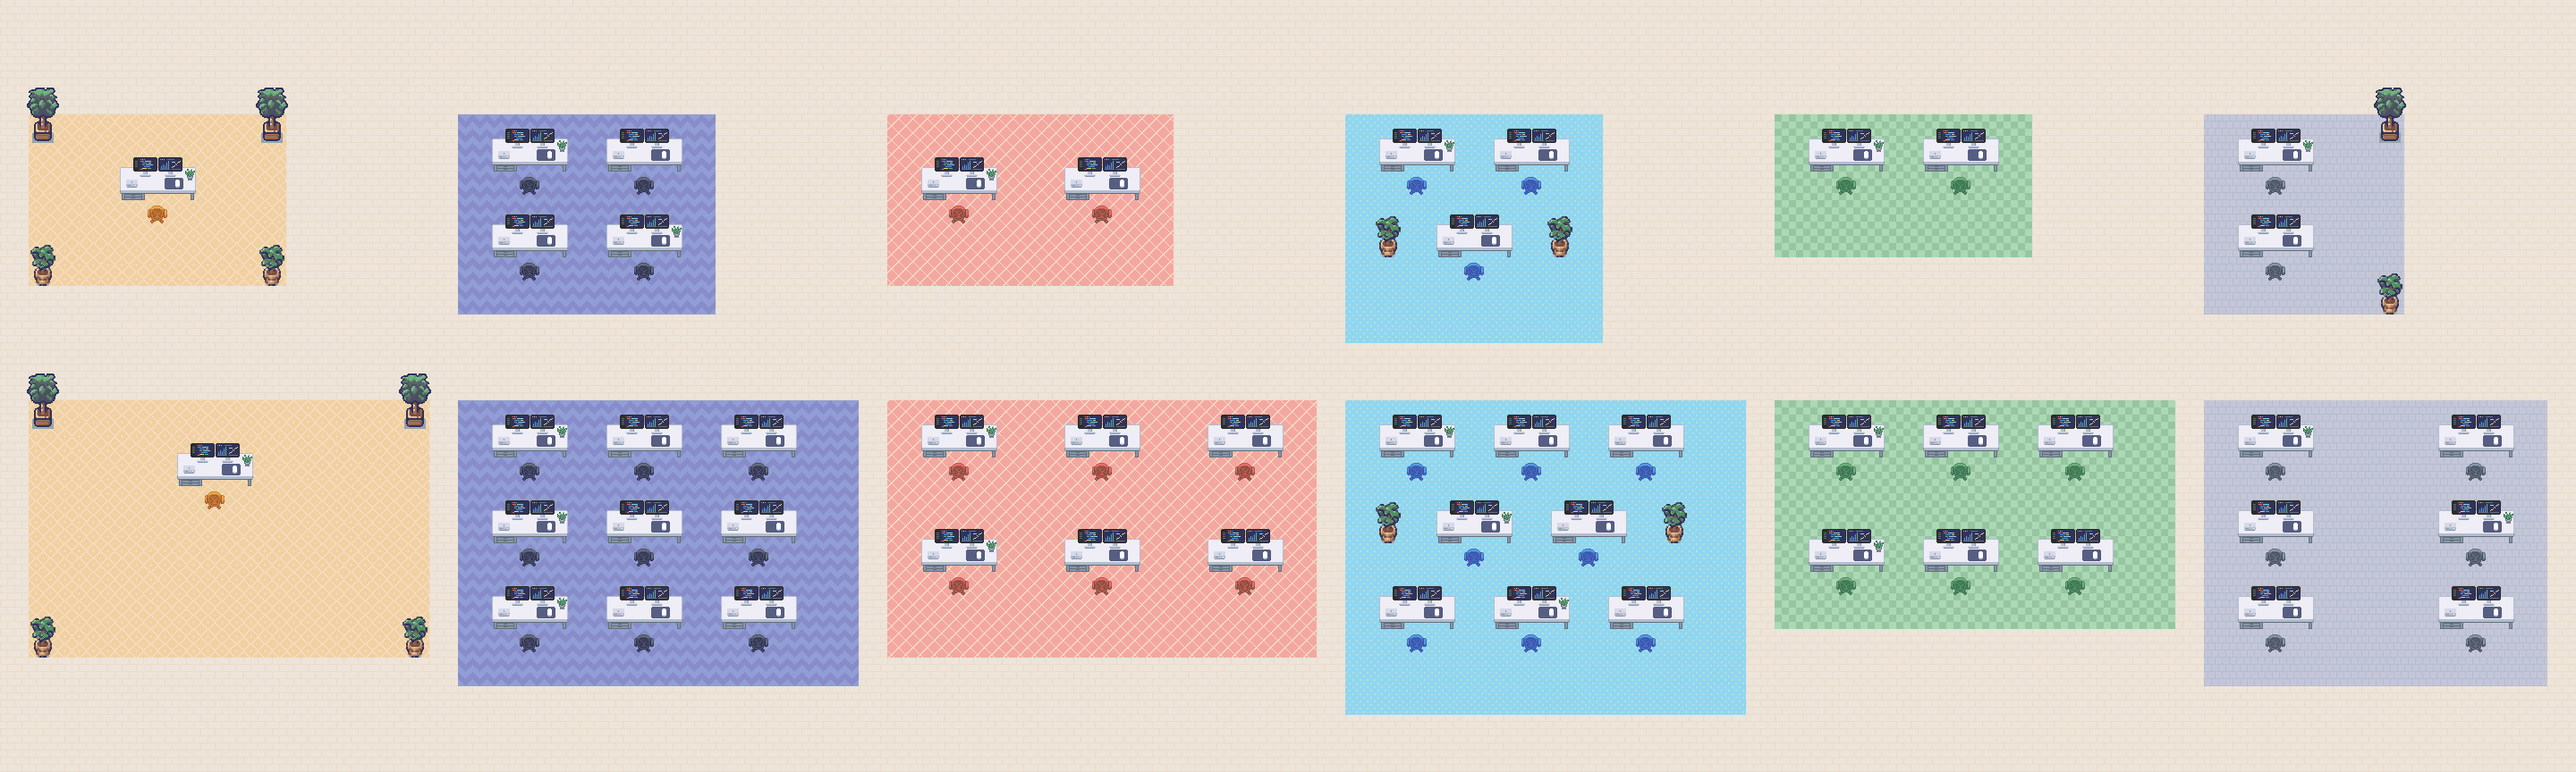
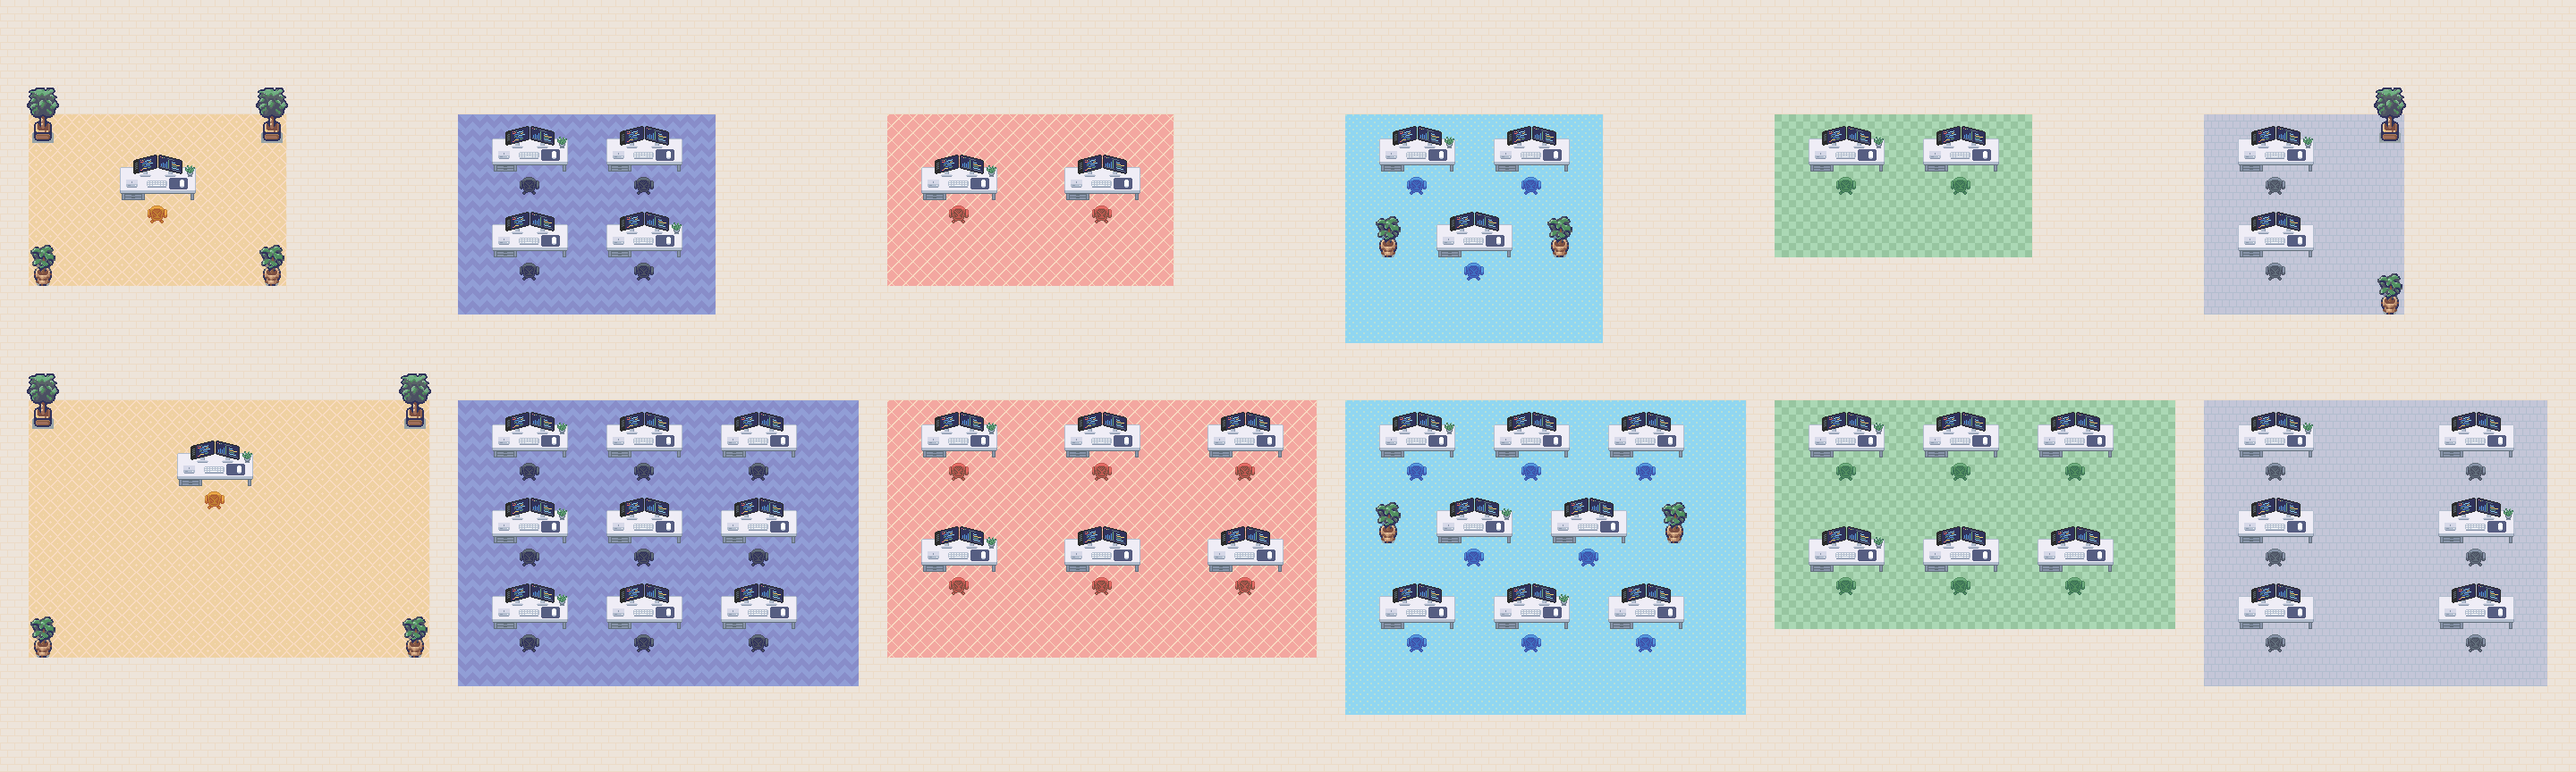
Desk setup: keyboard on every desk, monitors angled toward the chair
- New drawn prop: a slim keyboard, centre front of each desk.
- The two displays are turned in toward the chair (outer edges forward).
- Mouse mat moved right and the small desk plant back to make room.

diff --git a/scripts/lib/desk-props.ts b/scripts/lib/desk-props.ts
@@ -27,18 +27,37 @@ function rounded(c: Canvas, x: number, y: number, w: number, h: number, color: s
 }
 
 const MONITOR_W = 27;
-const MONITOR_H = 22;
-/** One display seen from the front, on its stand. The lit area is 25×14 at (ox + 1, 1). */
-function monitor(c: Canvas, ox: number, screen: (x: number, y: number) => void) {
-  rounded(c, ox, 0, MONITOR_W, 16, BEZEL);
-  c.fill(ox + 1, 1, 25, 14, SCREEN);
-  screen(ox + 1, 1);
-  // stand: a neck and a flat foot, lit from the top left
-  c.fill(ox + 11, 16, 5, 3, SILVER);
-  c.fill(ox + 15, 16, 1, 3, GREY);
-  c.fill(ox + 8, 19, 11, 1, SILVER_LIGHT);
-  c.fill(ox + 7, 20, 13, 1, SILVER);
-  c.fill(ox + 8, 21, 11, 1, GREY);
+/** Height of a display's face, and of the whole prop (face + its lean + stand). */
+const FACE_H = 16;
+const MONITOR_H = 25;
+/** The displays are turned in toward the chair: their faces drop 1 px for every SLOPE px toward the outer edge. */
+const SLOPE = 4;
+
+/**
+ * One display on its stand, turned toward the chair. `lean` is the side that comes forward (the
+ * outer one): seen from above and in front, that edge sits lower, so the face is drawn flat and
+ * then slid down column by column. `screen` draws the lit 25×14 area at (1, 1) of the flat face.
+ */
+function monitor(c: Canvas, ox: number, lean: "left" | "right", screen: (face: Canvas) => void) {
+  const face = new Canvas(MONITOR_W, FACE_H);
+  rounded(face, 0, 0, MONITOR_W, FACE_H, BEZEL);
+  face.fill(1, 1, 25, 14, SCREEN);
+  screen(face);
+  const drop = (x: number) => Math.floor((lean === "left" ? MONITOR_W - 1 - x : x) / SLOPE);
+  // stand first (the face hangs in front of the neck): a neck under the middle of the face and a flat foot, lit from the top left
+  const top = FACE_H + drop(13);
+  c.fill(ox + 11, top - 2, 5, 5, SILVER);
+  c.fill(ox + 15, top - 2, 1, 5, GREY);
+  c.fill(ox + 8, top + 3, 11, 1, SILVER_LIGHT);
+  c.fill(ox + 7, top + 4, 13, 1, SILVER);
+  c.fill(ox + 8, top + 5, 11, 1, GREY);
+  for (let x = 0; x < MONITOR_W; x++)
+    for (let y = 0; y < FACE_H; y++) {
+      const i = (y * MONITOR_W + x) * 4;
+      if (!face.data[i + 3]) continue;
+      const o = ((y + drop(x)) * c.w + ox + x) * 4;
+      for (let k = 0; k < 4; k++) c.data[o + k] = face.data[i + k]!;
+    }
 }
 
 /** Window buttons, top left of a screen. */
@@ -48,13 +67,14 @@ function lights(c: Canvas, x: number, y: number) {
   c.set(x + 4, y, GREEN);
 }
 
-/** Two displays side by side: code on the left, a dashboard on the right. */
+/** Two displays side by side, angled in toward the chair: code on the left, a dashboard on the right. */
 function dualMonitor(): Canvas {
   const c = new Canvas(MONITOR_W * 2 + 1, MONITOR_H);
-  monitor(c, 0, (x, y) => {
-    c.fill(x, y, 5, 14, BEZEL); // file list
-    for (const row of [3, 5, 7, 9]) c.fill(x + 1, y + row, 3, 1, GREY_DARK);
-    lights(c, x + 7, y + 1);
+  monitor(c, 0, "left", (f) => {
+    const x = 1, y = 1;
+    f.fill(x, y, 5, 14, BEZEL); // file list
+    for (const row of [3, 5, 7, 9]) f.fill(x + 1, y + row, 3, 1, GREY_DARK);
+    lights(f, x + 7, y + 1);
     // lines of code: [row, indent, [length, color]…]
     const lines: [number, number, [number, string][]][] = [
       [3, 0, [[4, CORAL], [7, SKY]]],
@@ -67,22 +87,39 @@ function dualMonitor(): Canvas {
     for (const [row, indent, parts] of lines) {
       let px = x + 7 + indent;
       for (const [len, color] of parts) {
-        c.fill(px, y + row, len, 1, color);
+        f.fill(px, y + row, len, 1, color);
         px += len + 1;
       }
     }
   });
-  monitor(c, MONITOR_W + 1, (x, y) => {
-    lights(c, x + 1, y + 1);
-    c.fill(x + 9, y + 1, 8, 1, GREY_DARK); // title
-    // bars growing to the right, then a line climbing over a baseline
-    [3, 5, 4, 7, 9].forEach((h, i) => c.fill(x + 2 + i * 2, y + 12 - h, 1, h, i === 4 ? GREEN : BLUE));
-    c.fill(x + 1, y + 12, 11, 1, GREY_DARK);
-    const climb = [10, 9, 9, 8, 6, 7, 5, 4, 4, 3];
-    climb.forEach((row, i) => c.set(x + 14 + i, y + row, YELLOW));
-    c.fill(x + 14, y + 12, 10, 1, GREY_DARK);
-    c.fill(x + 14, y + 4, 4, 1, SKY); // the number that matters
+  monitor(c, MONITOR_W + 1, "right", (f) => {
+    const x = 1, y = 1;
+    lights(f, x + 1, y + 1);
+    f.fill(x + 9, y + 1, 8, 1, GREY_DARK); // title
+    // bars growing to the right over a baseline
+    [3, 5, 4, 7, 9].forEach((h, i) => f.fill(x + 2 + i * 2, y + 12 - h, 1, h, i === 4 ? GREEN : BLUE));
+    f.fill(x + 1, y + 12, 11, 1, GREY_DARK);
+    // figures down the right: plain rows, which stay readable on a face seen at an angle
+    f.fill(x + 14, y + 4, 4, 1, SKY);
+    f.fill(x + 14, y + 6, 9, 1, YELLOW);
+    f.fill(x + 14, y + 8, 6, 1, GREEN);
+    f.fill(x + 14, y + 10, 8, 1, SKY);
+    f.fill(x + 14, y + 12, 10, 1, GREY_DARK);
   });
+  return c;
+}
+
+/** A slim keyboard from above: silver body, three rows of white keys, the wide one in the front row. */
+function keyboard(): Canvas {
+  const c = new Canvas(23, 8);
+  rounded(c, 0, 0, 23, 7, SILVER);
+  for (const row of [1, 3]) for (let x = 1; x < 21; x += 3) c.fill(x, row, 2, 1, WHITE);
+  c.fill(1, 5, 2, 1, WHITE);
+  c.fill(4, 5, 2, 1, WHITE);
+  c.fill(7, 5, 8, 1, WHITE); // space bar
+  c.fill(16, 5, 2, 1, WHITE);
+  c.fill(19, 5, 2, 1, WHITE);
+  c.fill(1, 7, 21, 1, GREY);
   return c;
 }
 
@@ -118,6 +155,7 @@ export function deskProps(): DrawnProp[] {
   return [
     { name: "dual_monitor", file: "office/dual_monitor.png", canvas: dualMonitor() },
     { name: "mac_mini", file: "office/mac_mini.png", canvas: macMini() },
+    { name: "keyboard", file: "office/keyboard.png", canvas: keyboard() },
     { name: "mouse_mat", file: "office/mouse_mat.png", canvas: mouseMat() },
   ];
 }

diff --git a/shared/src/shared.test.ts b/shared/src/shared.test.ts
@@ -238,8 +238,8 @@ describe("office", () => {
     ] }],
     tilesets: [
       { firstgid: 1, name: "terrain", tilewidth: 32, tileheight: 32, tilecount: 32, columns: 8, tiles: DEPARTMENTS.map((d, i) => ({ id: 10 + i, properties: [{ name: "floor", type: "string", value: d.id }] })) },
-      { firstgid: 33, name: "props", tilewidth: 160, tileheight: 160, tilecount: 8, columns: 0, tiles: [
-        prop(5, "dual_monitor", 55, 22, 0, 0), prop(6, "mac_mini", 13, 10, 0, 0), prop(7, "mouse_mat", 21, 13, 0, 0),
+      { firstgid: 33, name: "props", tilewidth: 160, tileheight: 160, tilecount: 9, columns: 0, tiles: [
+        prop(5, "dual_monitor", 55, 25, 0, 0), prop(6, "mac_mini", 13, 10, 0, 0), prop(7, "mouse_mat", 21, 13, 0, 0), prop(8, "keyboard", 23, 8, 0, 0),
         prop(0, "desk", 85, 37, 3, 1), prop(1, "office_chair", 22, 20, 0, 0, "up"), prop(2, "plant_tree", 36, 62, 1, 1), prop(3, "plant_small", 28, 46, 1, 1), prop(4, "plant_pot", 11, 13, 0, 0),
       ] },
     ],
@@ -341,7 +341,10 @@ describe("office", () => {
     // every desk carries its computer, inside the desk's own outline (85×37 px, 6 px into its three tiles) and drawn over it
     for (const desk of world.furniture.filter((f) => f.image === "desk.png")) {
       const on = world.furniture.filter((f) => DESK_SETUP.some((d) => `${d.prop}.png` === f.image) && f.x >= desk.x && f.x + f.width <= desk.x + desk.width);
-      expect(on.map((f) => f.image).sort()).toEqual(["dual_monitor.png", "mac_mini.png", "mouse_mat.png"]);
+      expect(on.map((f) => f.image).sort()).toEqual(["dual_monitor.png", "keyboard.png", "mac_mini.png", "mouse_mat.png"]);
+      // nothing in the front row of the desk sits on anything else there
+      const front = on.filter((f) => f.image !== "dual_monitor.png").sort((a, b) => a.x - b.x);
+      for (let i = 1; i < front.length; i++) expect(front[i]!.x).toBeGreaterThanOrEqual(front[i - 1]!.x + front[i - 1]!.width);
       for (const f of on) {
         expect(f.y).toBeLessThanOrEqual(desk.y - 9); // on the desk top, not on its front edge
         expect(f.y + f.z).toBeGreaterThan(desk.y);

diff --git a/shared/src/office.ts b/shared/src/office.ts
@@ -215,15 +215,16 @@ interface Placement {
 
 const DESK_W = 3;
 /**
- * What stands on every desk: two monitors at the back facing the chair, the computer front left,
- * the mouse on its mat front right. `left` = px from the left edge of the desk's three tiles to the
+ * What stands on every desk: two monitors at the back angled toward the chair, the computer front
+ * left, the keyboard in front of the chair, the mouse on its mat front right. `left` = px from the left edge of the desk's three tiles to the
  * prop's left edge; `dy` = px from the desk's base line up to the prop's base; `z` puts it over the desk.
  * The same list furnishes the desks of the town map (scripts/gen-map.ts).
  */
 export const DESK_SETUP: { prop: string; left: number; dy: number; z: number }[] = [
   { prop: "dual_monitor", left: 21, dy: -26, z: 30 },
   { prop: "mac_mini", left: 13, dy: -14, z: 30 },
-  { prop: "mouse_mat", left: 56, dy: -12, z: 30 },
+  { prop: "keyboard", left: 36, dy: -14, z: 30 },
+  { prop: "mouse_mat", left: 61, dy: -12, z: 30 },
 ];
 /** A desk with its chair: 3 tiles wide, 2 deep (desk row, then the chair row). */
 const STATION_H = 2;
@@ -242,7 +243,7 @@ function arrange(dept: Department, w: number, h: number): Placement[] {
     put("desk", tx, ty, DESK_W);
     for (const item of DESK_SETUP) out.push({ prop: item.prop, tx, ty, span: DESK_W, left: item.left, dy: item.dy, dx: 0, z: item.z });
     put(dept.chair, tx, ty + 1, DESK_W, -6);
-    if (desks++ % 3 === 0) put("plant_pot", tx + 2, ty, 1, -22, 4, 30);
+    if (desks++ % 3 === 0) put("plant_pot", tx + 2, ty, 1, -26, 4, 30); // back right corner, behind the mouse mat
   };
   /** How many stations fit side by side / one below the other with `gap` free tiles between them. */
   const across = (gap: number) => Math.max(1, Math.floor((w - 2 + gap) / (DESK_W + gap)));

diff --git a/CLAUDE.md b/CLAUDE.md
@@ -92,7 +92,7 @@ Full spec: `docs/spec.md`. Read it before changing anything in `shared/src/spec.
 - Source sheets → `scripts/tools/build_props.py <uploads>` → `art/props/<room>/<name>.png` + `art/props/props.json` (name, file, size, tile footprint). Rooms: office, lounge, meeting, kitchen; floor textures in `art/props/floors/`.
 - **All props are 32×32-tile detail.** 16px-scale sheets (interiors) are converted with Scale2x (`scale2x()`: rebuilds diagonals at 2×, no 2×2 blocks) + `reshade()` (top-left light: 1px highlight/shadow rim one palette step apart). 32px-scale sources (kitchen, walls, reference desk, reference bookshelves) are used ×1. Run `python3 scripts/tools/check_props.py` after adding props — it flags plain 2×-upscaled art and sizes outside 32px-world ranges (must be all ✓).
 - Department chairs (`office_chair_<color>`) are not source art: `gen-placeholders.ts` recolors `office_chair` into `client/public/assets/furniture` (`CHAIR_COLORS`). Department carpets are terrain tiles 24–28 (`carpet()` in the terrain generator); Product uses the lavender carpet.
-- **Drawn props** (`scripts/lib/desk-props.ts`): `dual_monitor`, `mac_mini`, `mouse_mat` (mat + mouse) are authored in code, pixel by pixel in the prop palette, and written by `gen-placeholders.ts` straight to `client/public/assets/furniture` (not in `art/props`, not touched by build_props.py). Footprint 0. Every desk carries them: `DESK_SETUP` in `shared/src/office.ts` (px offsets on the desk, `z` over it) is used by the office's `station()` and by the town's desks in `gen-map.ts` — change a position there, then regenerate the maps.
+- **Drawn props** (`scripts/lib/desk-props.ts`): `dual_monitor` (two displays angled in toward the chair), `mac_mini`, `keyboard`, `mouse_mat` (mat + mouse) are authored in code, pixel by pixel in the prop palette, and written by `gen-placeholders.ts` straight to `client/public/assets/furniture` (not in `art/props`, not touched by build_props.py). Footprint 0. Every desk carries them: `DESK_SETUP` in `shared/src/office.ts` (px offsets on the desk, `z` over it) is used by the office's `station()` and by the town's desks in `gen-map.ts` — change a position there, then regenerate the maps.
 - **Kept assets only** (`KEEP` in build_props.py): kitchen props (counters, sinks, stove, fridge, shelf, microwave, mixer, coffee machine), office `desk` + `office_chair`, plants (`plant_tree`, `plant_small`, `plant_desk`, `plant_pot`), and the kitchen floor texture. Everything else was removed; library, lounge and meeting room are empty rooms (plants only) waiting for new art. Add props by extending `KEEP` + MANIFEST.
 - Every prop is recolored to `PROP_PALETTE` (colors sampled from the reference office; mirrored in `shared/src/palette.ts`). Translucent shadows are dropped.
 - `tableSet()` in `gen-map.ts` (table + chairs on four sides) is kept for when table/chair art returns.
